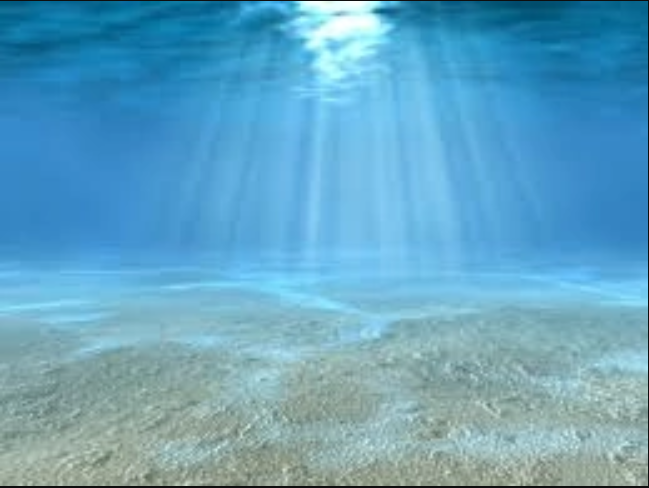
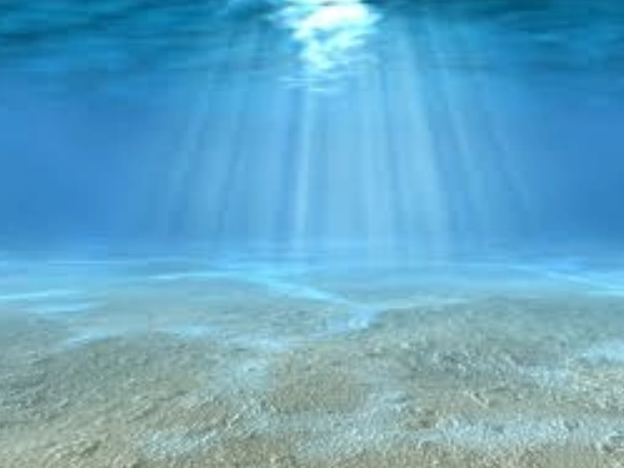
Made it into an actual sidescroller,
still need symmetrical background for smooth transition

diff --git a/src/game/View.java b/src/game/View.java
@@ -30,6 +30,7 @@ public class View extends JFrame{
 	public static BufferedImage TrashNPCImage2;
 	public static BufferedImage FoodNPCImage;
 	public static BufferedImage Background;
+	public static BufferedImage BackgroundFlip;
 	
 	/**
 	 * @param width
@@ -45,6 +46,7 @@ public class View extends JFrame{
 			TrashNPCImages[1] = ImageIO.read(new File("images/car-tire-png-479.png"));
 			FoodNPCImage = ImageIO.read(new File("images/Fish_dead_east.png"));
 			Background = ImageIO.read(new File("images/background.PNG"));
+			BackgroundFlip = ImageIO.read(new File("images/backgroundflip.png"));
 
 		} catch (IOException e) {
 			e.printStackTrace();
@@ -166,7 +168,8 @@ class GamePanel extends JPanel implements KeyListener{
 
 	public void paintComponent(Graphics g){
 		super.paintComponent(g);
-		g.drawImage(View.Background, 0, 0, Main.frameWidth, Main.frameHeight, this);
+		g.drawImage(View.Background, -Board.timer%Main.frameWidth, 0, Main.frameWidth, Main.frameHeight, this);
+		g.drawImage(View.BackgroundFlip, Main.frameWidth-Board.timer%Main.frameWidth, 0, Main.frameWidth, Main.frameHeight, this);
 		for (game.NPC o : obstacles){
 			if (o.getIsGarbage()) {
 				g.drawImage(View.TrashNPCImages[o.image], o.getXloc(), o.getYloc(), 50, 50, null);

diff --git a/src/game/Board.java b/src/game/Board.java
@@ -6,7 +6,7 @@ import java.util.Random;
 
 public class Board /*implements KeyListener*/{
 	public Player player;
-	public int timer;
+	public static int timer;
 	public ArrayList<NPC> obstacles; //ERIC Changed from Private to Public
 	public boolean isGameOver; // ERIC Changed from private to Public
 	
@@ -31,6 +31,7 @@ public class Board /*implements KeyListener*/{
 	*/
 	
 	public Board() {
+		timer=0;
 		player = new Player();
 		obstacles = new ArrayList<NPC>();
 		isGameOver = false;
@@ -77,6 +78,7 @@ public class Board /*implements KeyListener*/{
 	}
 
 	public void update() {
+		timer++;
 		Random rand = new Random();
 		boolean isThereSpace = true;
 		moveNPCs();
